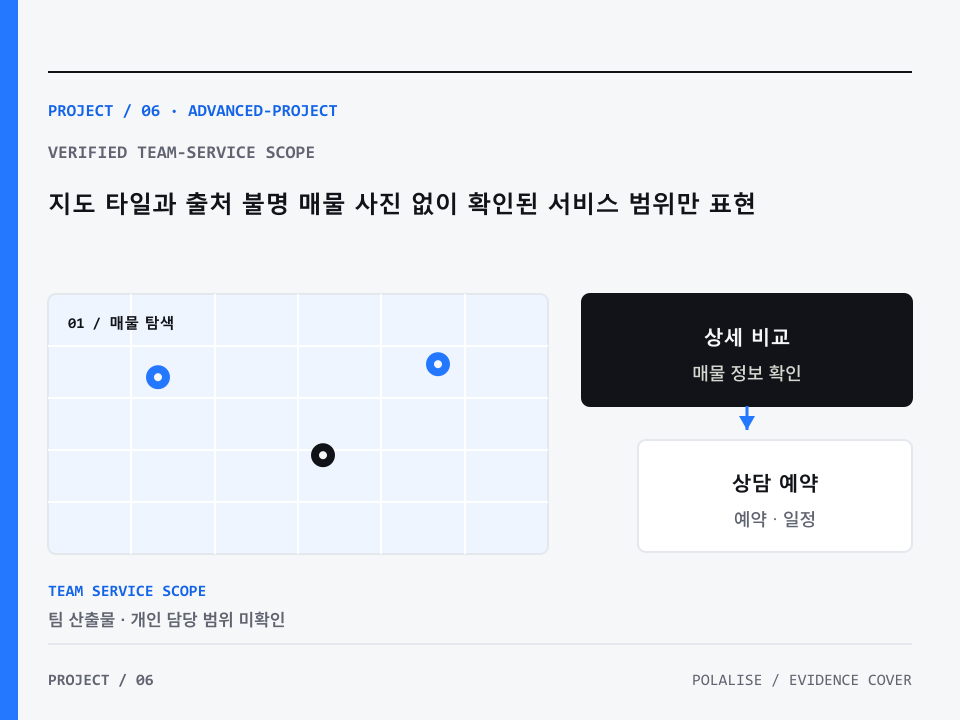
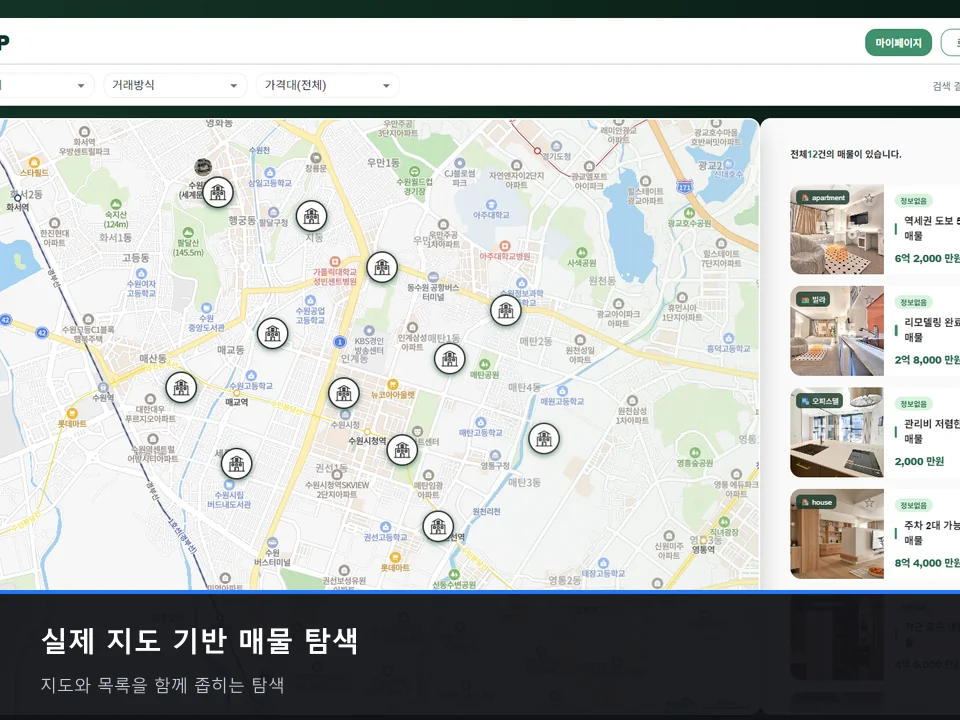
feat: PPAP 커버를 생성 이미지에서 실제 지도 탐색 화면으로 교체
커버는 지도 기반 매물 탐색이고 갤러리는 담당 범위를 탐색 -> 상세 -> 내 활동
순으로 잇는다(map-search, property-detail, mypage).

캡처 조건
- 저장소 밖 작업 사본에서 MongoDB·Express·React 를 실제로 기동해 촬영했다.
- 화면의 회원·매물은 캡처용으로 시드한 더미 데이터이며 실제 이용자 기록이 아니다.
  실명·실번호·실주소를 넣지 않았고 마스킹이 필요한 개인정보는 없었다.
- 매물 사진은 저장소에 원래 있던 uploads/ 이미지를 그대로 쓴다.
- 지도는 Naver Maps Client ID 가 있어야 렌더링되며, 키는 작업 사본 .env 에만 두고
  캡처 후 삭제했다. 저장소와 커밋에 유입되지 않았음을 확인했다.

오버레이 문구는 정량 성과가 없는 프로젝트라 역할·범위로만 쓰고 수치를 만들지 않았다.

검증: npm run build 4단계 PASS(astro check 0 errors 0 warnings, audit-public 통과) ·
npm test 13/13(visuals 순서 계약 포함) · npm run test:browser 43/43(WCAG 2.2 AA 포함) ·
커버 변형 6종 최대 195KB 로 maxBytes 이내 · 데스크톱 8:5·모바일 4:3 잘림 육안 확인

diff --git a/src/content/projects/advanced-project.md b/src/content/projects/advanced-project.md
@@ -35,9 +35,25 @@ links:
 cover:
   kind: "scope"
   tone: "paper"
-  alt: "지도 기반 매물 탐색과 상담 관리 기능을 팀 산출물 범위로 구분한 프로젝트 지도"
+  alt: "매물 종류와 거래 방식, 가격대 필터를 상단에 두고 지도 위 매물 마커와 오른쪽 목록을 함께 보여주는 PPAP 지도 기반 매물 탐색 실행 화면"
   evidence:
     source: "limitation"
+visuals:
+  - id: "map-search"
+    alt: "매물 종류와 거래 방식, 가격대 조건을 상단에서 고르면 지도 위 마커와 오른쪽 매물 목록이 함께 좁혀지는 PPAP 지도 기반 매물 탐색 실행 화면"
+    caption: "조건 필터로 지도 마커와 목록을 함께 좁히는 매물 탐색"
+    scope: "personal"
+    evidence: "실행 화면. 매물과 회원은 캡처용으로 넣은 더미 데이터이며 실제 이용자 기록이 아닙니다"
+  - id: "property-detail"
+    alt: "매물 사진을 넘겨 보는 캐러셀과 상담 신청 버튼 아래에 매물 명칭과 거래 종류, 매물 유형을 표로 정리한 PPAP 매물 상세 실행 화면"
+    caption: "사진 캐러셀과 상담 신청, 매물 정보를 한 화면에 정리한 상세"
+    scope: "personal"
+    evidence: "실행 화면. 매물 정보는 캡처용 더미 데이터입니다"
+  - id: "mypage"
+    alt: "왼쪽에 프로필과 회원 관리를 두고 오른쪽에 관심 매물 카드와 신청자, 전화번호, 문의 내용이 담긴 상담 카드를 나열한 PPAP 마이페이지 실행 화면"
+    caption: "관심 매물과 상담 신청 이력을 한 곳에서 확인하는 마이페이지"
+    scope: "personal"
+    evidence: "실행 화면. 회원과 연락처는 캡처용 더미 값입니다"
 ---
 
 ## 지도 탐색과 거래 데이터를 한 화면 흐름으로
